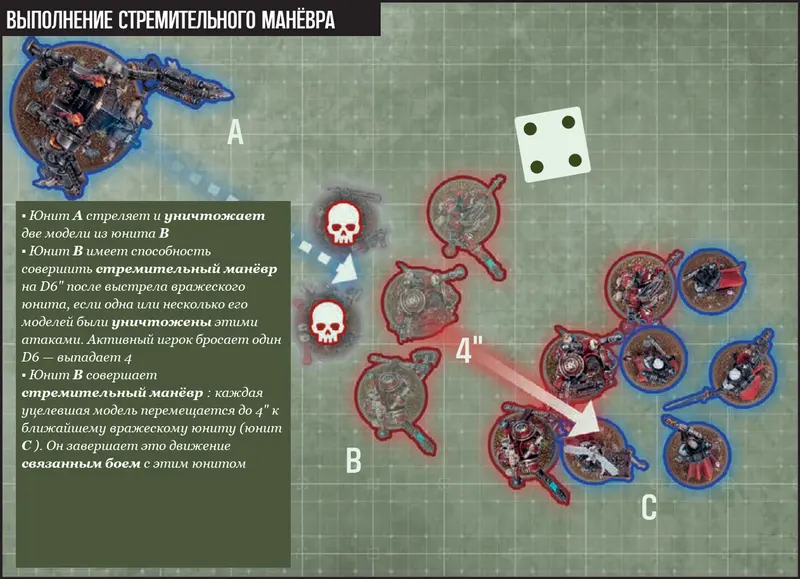
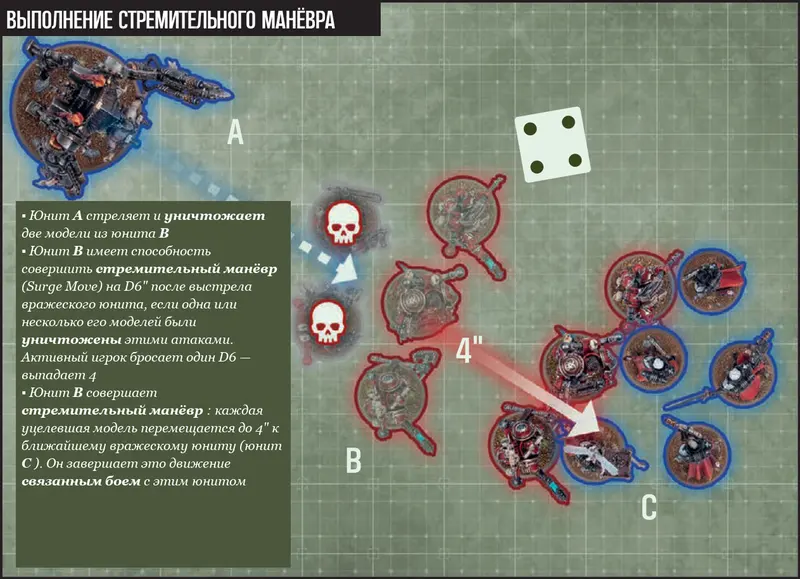
RU: gloss «стремительный манёвр (Surge Move)» in data titles + surge illustration
Add the English gloss to the Surge Move section titles (21.01/21.02) and to the
«стремительный манёвр» term in the making-a-surge-move illustration caption.

Changed region(s): [[0.0312, 0.4663, 0.3438, 0.8394]]

diff --git a/src/data/advancedRules.js b/src/data/advancedRules.js
@@ -576,13 +576,13 @@ If a unit has an item of wargear that has a **wargear ability**, that ability ap
         {
           id: 'section-21-01',
           sectionNum: '21.01',
-          title: 'Стремительный манёвр',
+          title: 'Стремительный манёвр (Surge Moves)',
           body: `Некоторые правила позволяют отряду совершить **стремительный манёвр** (surge move), как описано ниже.`,
         },
         {
           id: 'section-21-02',
           sectionNum: '21.02',
-          title: 'Стремительный манёвр',
+          title: 'Стремительный манёвр (Surge Move)',
           body: `◈ МАКСИМАЛЬНОЕ РАССТОЯНИЕ | Как указано в правиле, разрешающем этот тип манёвра.
 ◈ УСЛОВИЕ | Применяются все из следующего.
 ▪ Правило, разрешающее этот тип манёвра, было активировано.
